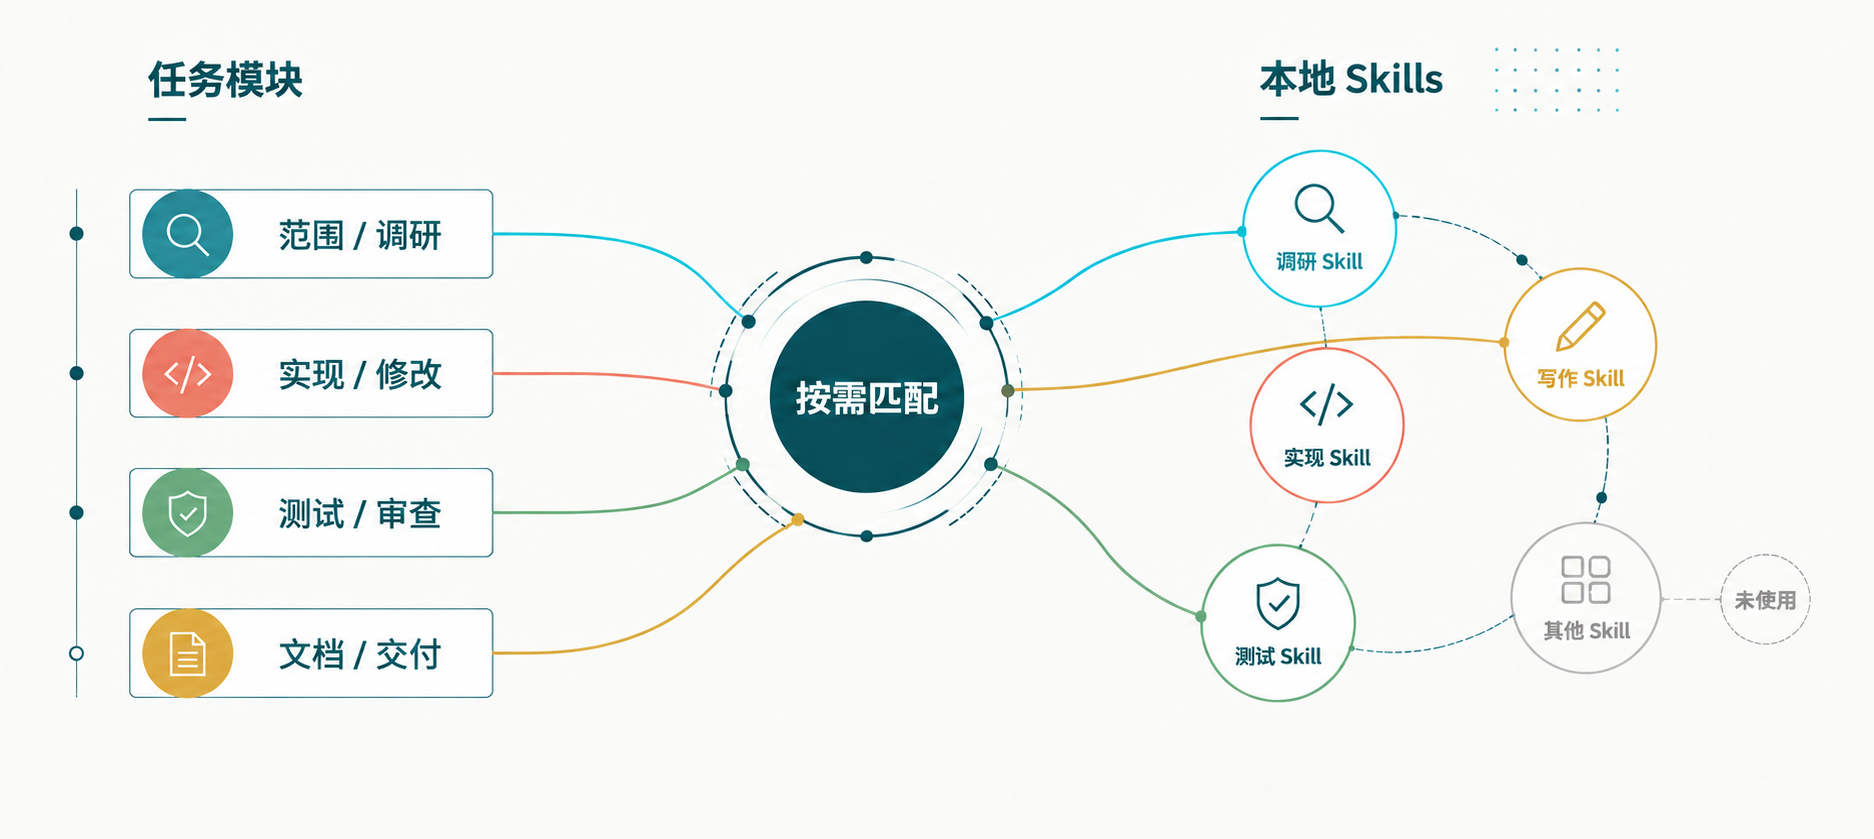
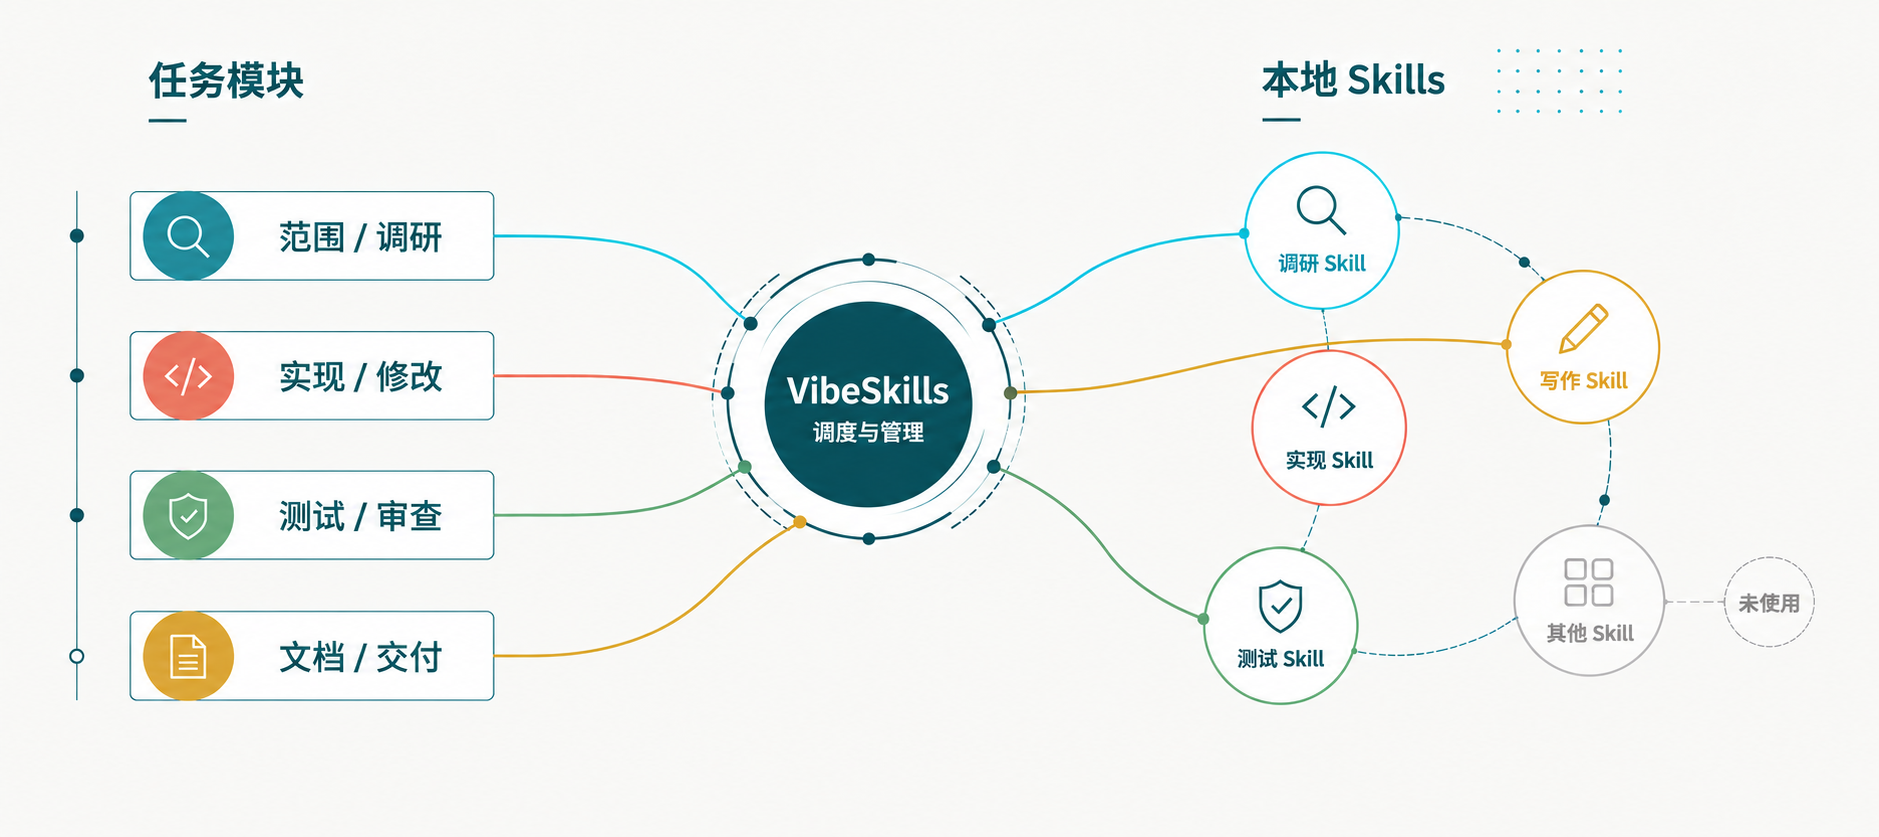
docs: center VibeSkills in orchestration graphic

diff --git a/README.md b/README.md
@@ -50,20 +50,21 @@ so more of the capability you already installed can contribute where it actually
 | Unmatched work is handled on the spot | A useful Skill is assigned to specific work with a stated result |
 | Separate calls are left disconnected | All results are brought together and checked at the end |
 
-VibeSkills first makes the task clear, then lets the right Skills help with the
-right parts. It selects only the Skills that are useful for the task. Work that
-does not need a dedicated Skill stays with the current AI.
+VibeSkills first makes the task clear, then organizes the Skills that can help
+with each part. It keeps the work coordinated and brings the results back
+together. Only Skills that are useful for the task are selected.
 
-## Decompose first, then organize Skills
+## How VibeSkills organizes the work
 
 <p align="center">
-  <img src="./docs/assets/vibeskills-skill-orchestration-en.png" width="920" alt="VibeSkills matches each part of a task with local Skills that help, while the current AI handles work that does not need a dedicated Skill">
+  <img src="./docs/assets/vibeskills-skill-orchestration-en.png" width="920" alt="VibeSkills sits between task modules and local Skills, coordinating the work and selecting only the Skills each part needs">
 </p>
 
-The task is split before Skills are chosen. If four parts need four different
-kinds of help, each part can use a different Skill. Work that does not need a
-dedicated Skill stays with the current AI. The goal is to complete the task, not
-to increase the number of calls.
+The diagram puts VibeSkills between the task modules and local Skills. It splits
+the task, chooses Skills for the parts that need them, coordinates the work, and
+brings the results together. Four parts can use four different Skills, or the
+task may need only some of the available Skills. The goal is to complete the
+task, not to increase the number of calls.
 
 ## What else VibeSkills does
 
